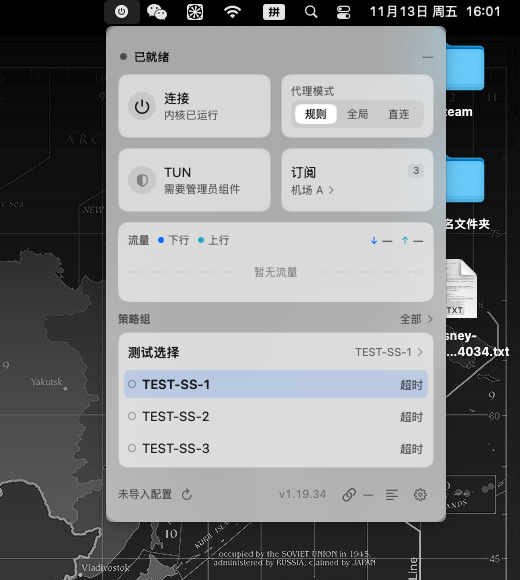
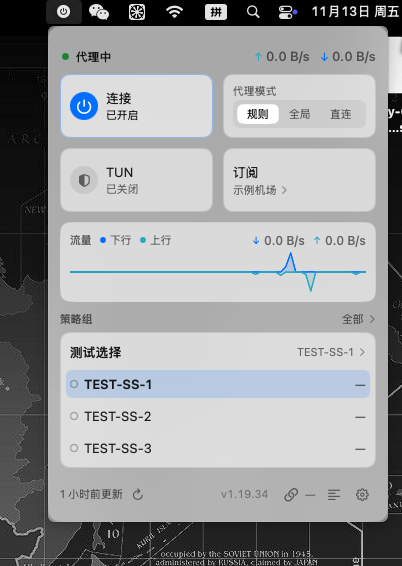
README 图片定稿：hero、面板、订阅、设置
- 全部来自真实运行（示例机场假数据，无隐私）
- 移除旧的 idle/ready/nodes 三张，改为一组语义清晰的截图

diff --git a/README.md b/README.md
@@ -14,13 +14,13 @@
 
 ## 界面
 
-| 未运行 | 内核已就绪（未接管流量） |
+| 面板（系统代理接管中） | 订阅管理 |
 |---|---|
-| <img src="docs/images/panel-idle.png" width="260"> | <img src="docs/images/panel-ready.png" width="260"> |
+| <img src="docs/images/panel.png" width="260"> | <img src="docs/images/panel-subscriptions.png" width="260"> |
 
-| 真实策略组与节点 |
+| 设置 |
 |---|
-| <img src="docs/images/panel-nodes.png" width="260"> |
+| <img src="docs/images/panel-settings.png" width="520"> |
 
 面板只有 340pt 宽，四个磁贴是全部一级动作：**连接**（系统代理开关）、**代理模式**（规则/全局/直连）、**TUN**、**订阅**。策略组卡片显示「选中项 + 延迟最低的两条」，点「全部」进完整列表。节点默认按延迟升序，未测速显示 `—`，超时才是「超时」。
 
